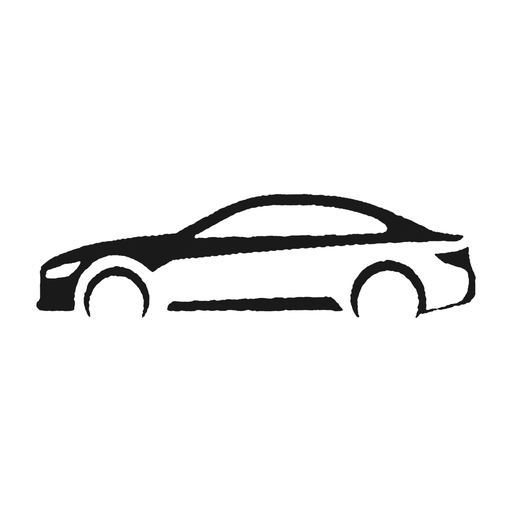
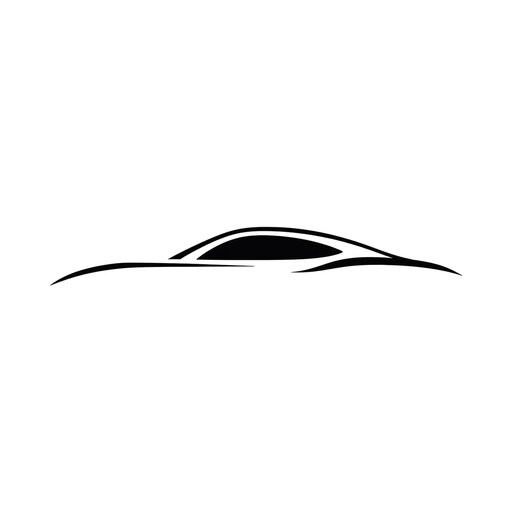
Add files via upload

Changed region(s): [[0.0625, 0.375, 0.9375, 0.625]]

diff --git a/sw.js b/sw.js
@@ -1,4 +1,4 @@
-const CACHE_NAME = 'outils-atelier-v8';
+const CACHE_NAME = 'outils-atelier-v10';
 const ASSETS = [
   './',
   './index.html',